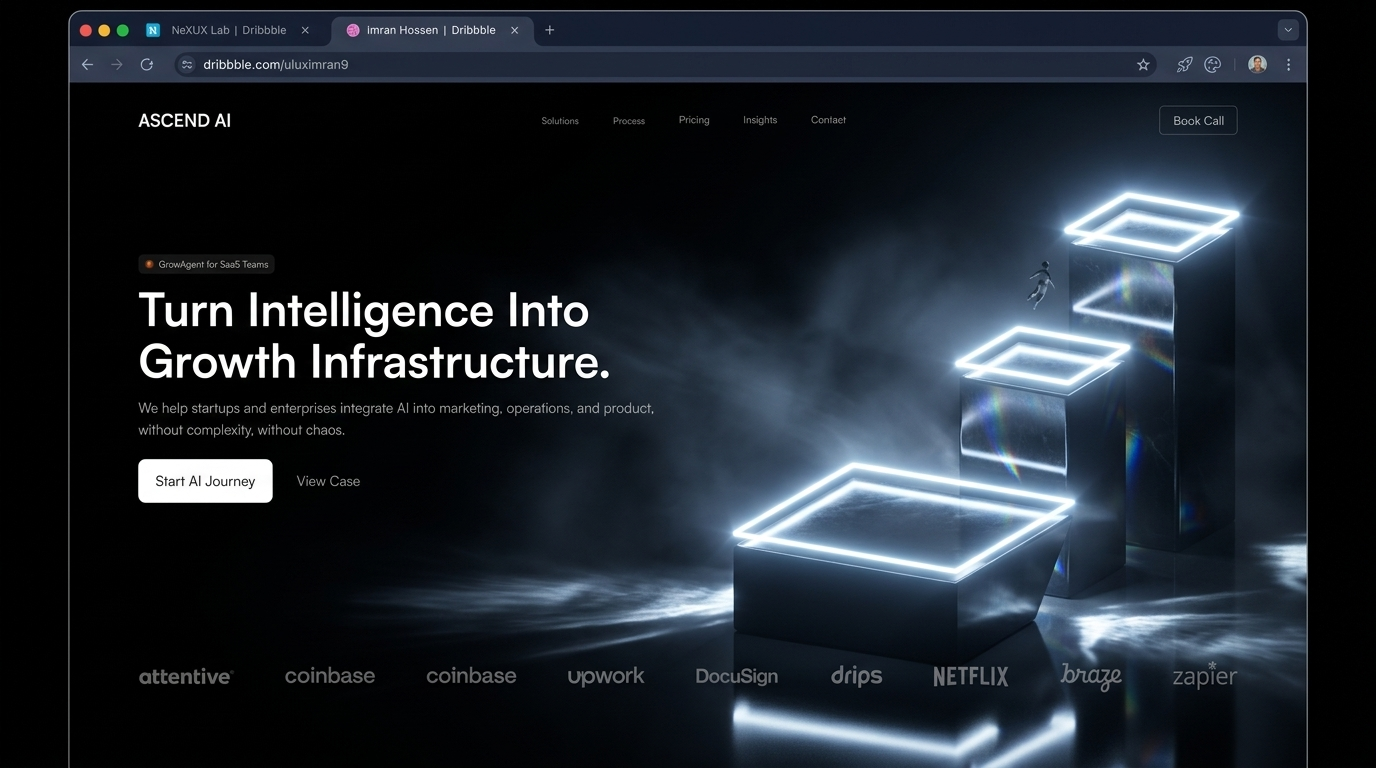
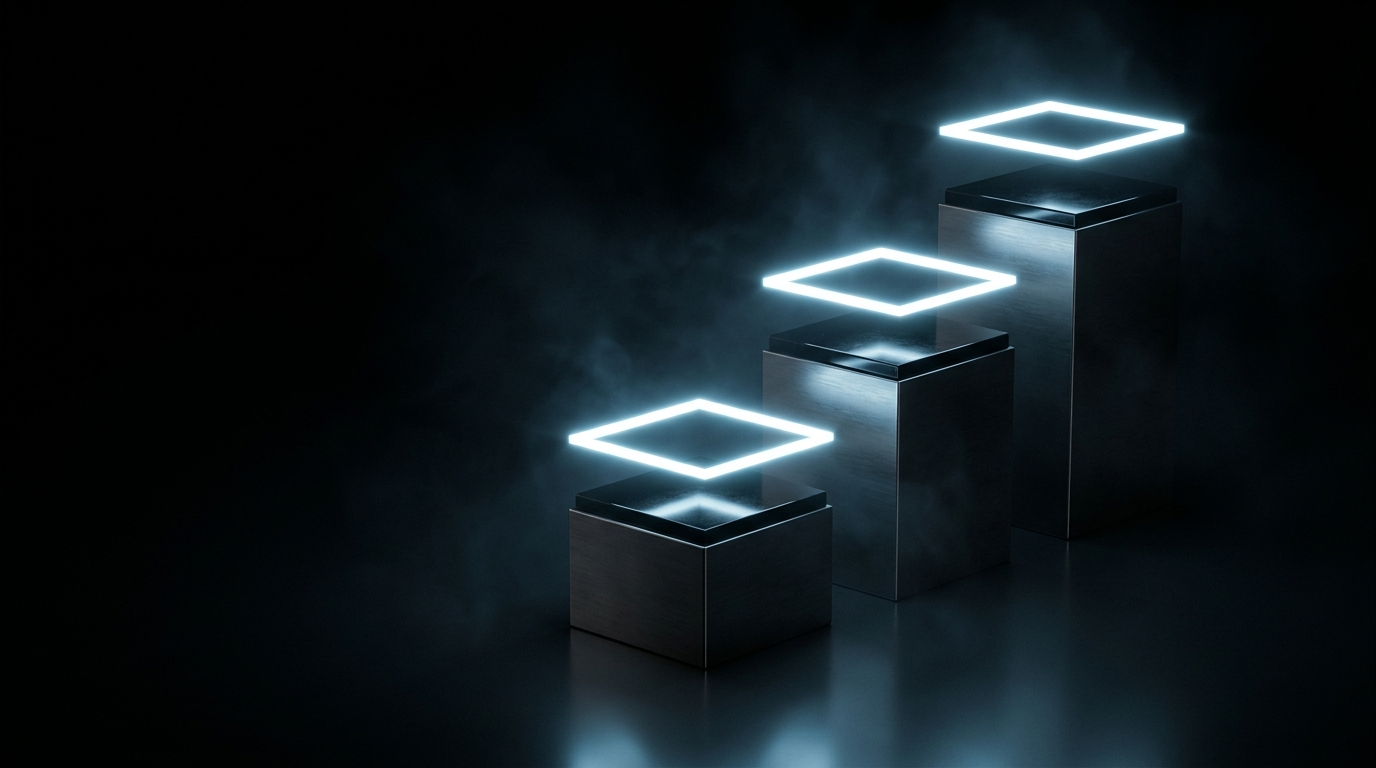
fix: replace hero background with custom-generated clean 3D monolithic render

diff --git a/src/components/Hero.tsx b/src/components/Hero.tsx
@@ -50,7 +50,7 @@ export function Hero({ dict }: HeroProps) {
         <div 
           className="relative w-full h-full transition-transform duration-700 ease-out will-change-transform"
           style={{
-            transform: `perspective(1200px) rotateY(${mousePos.x * 6}deg) rotateX(${-mousePos.y * 6}deg) scale(1.02)`,
+            transform: `perspective(1200px) rotateY(${mousePos.x * 5}deg) rotateX(${-mousePos.y * 5}deg) scale(1.02)`,
           }}
         >
           <Image
@@ -58,19 +58,18 @@ export function Hero({ dict }: HeroProps) {
             alt={dict.imageAlt}
             fill
             priority
-            className="object-cover object-center lg:object-right opacity-95 transition-opacity duration-1000"
+            className="object-cover object-center lg:object-right opacity-90 transition-opacity duration-1000"
             sizes="(max-width: 1024px) 100vw, 65vw"
           />
 
           {/* Glowing Aura Ring overlay simulating ambient neon emission */}
           <div 
-            className="absolute top-1/3 right-1/4 w-96 h-96 rounded-full bg-cyan-400/10 blur-[140px] pointer-events-none animate-neon-breath" 
+            className="absolute top-1/4 right-1/4 w-96 h-96 rounded-full bg-cyan-400/15 blur-[130px] pointer-events-none animate-neon-breath" 
           />
 
-          {/* Deep Black Gradient Masks for Seamless Edge Bleed */}
-          <div className="absolute inset-0 bg-gradient-to-r from-black via-black/80 to-transparent lg:via-black/35" />
-          <div className="absolute inset-0 bg-gradient-to-b from-black/90 via-transparent to-black" />
-          <div className="absolute inset-0 bg-gradient-to-t from-black via-black/70 to-transparent" />
+          {/* Seamless Edge Bleeds into pitch black */}
+          <div className="absolute inset-0 bg-gradient-to-r from-black via-black/70 to-transparent lg:from-black lg:via-black/30 lg:to-transparent" />
+          <div className="absolute inset-0 bg-gradient-to-t from-black via-transparent to-black/60" />
         </div>
       </div>
 
